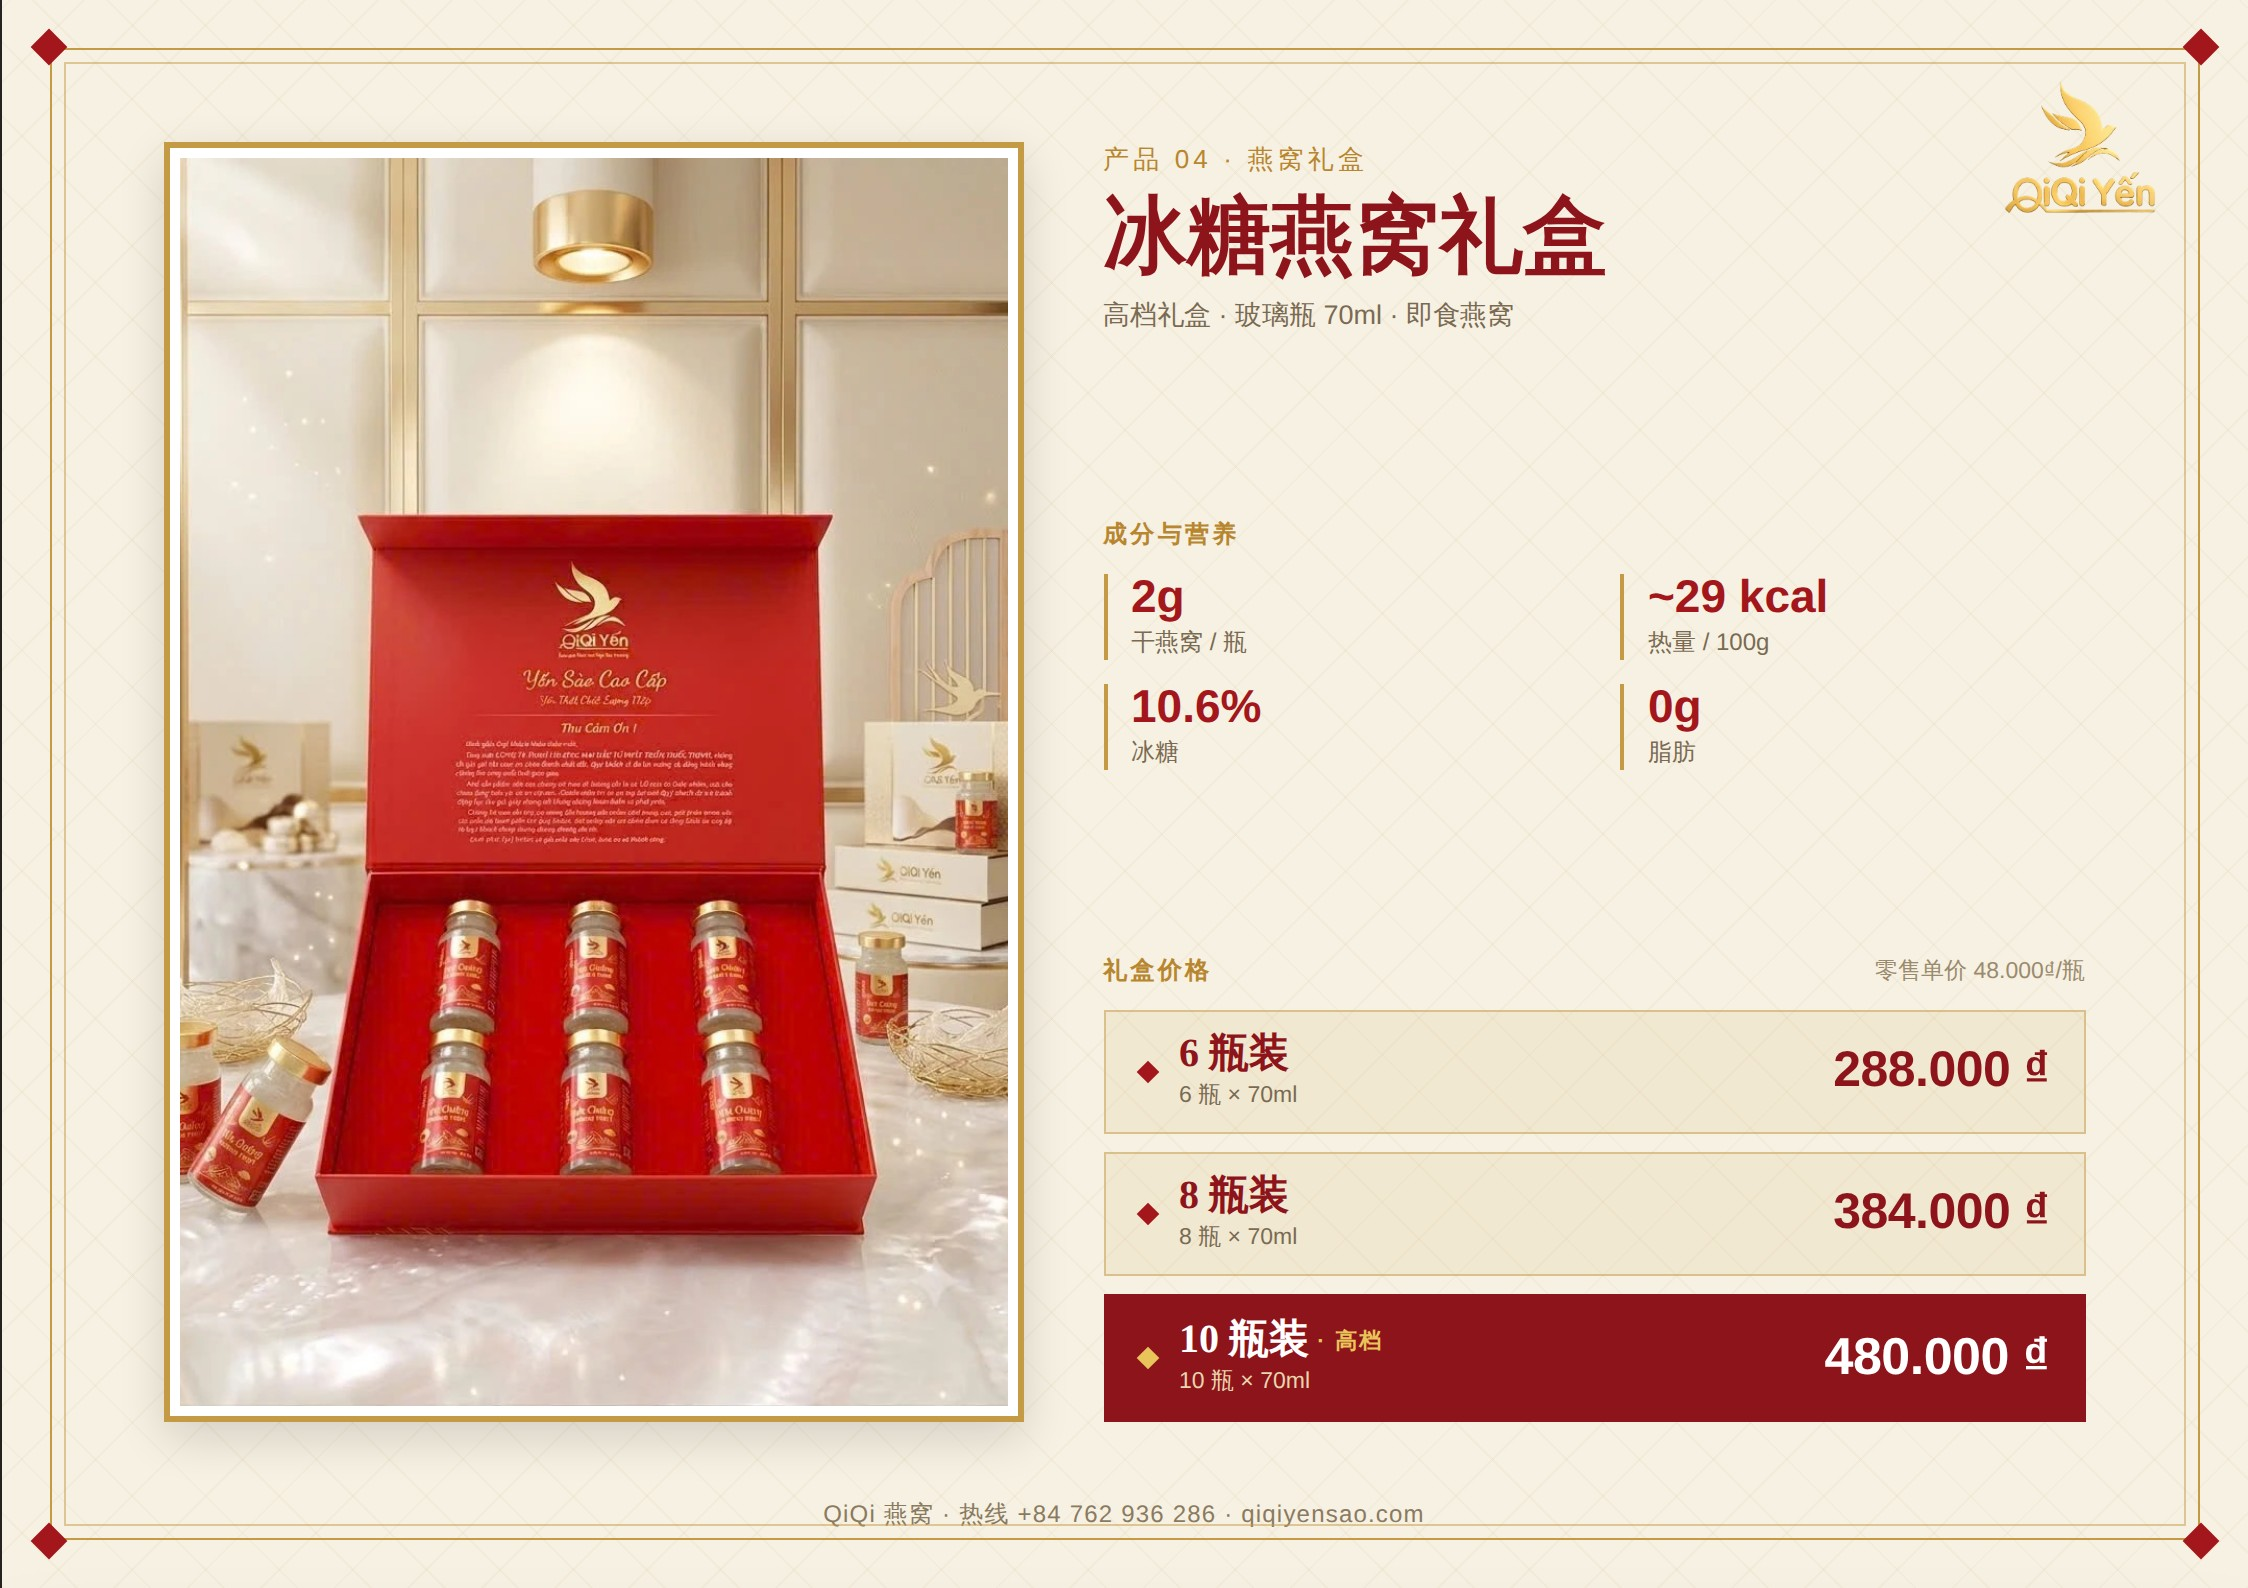
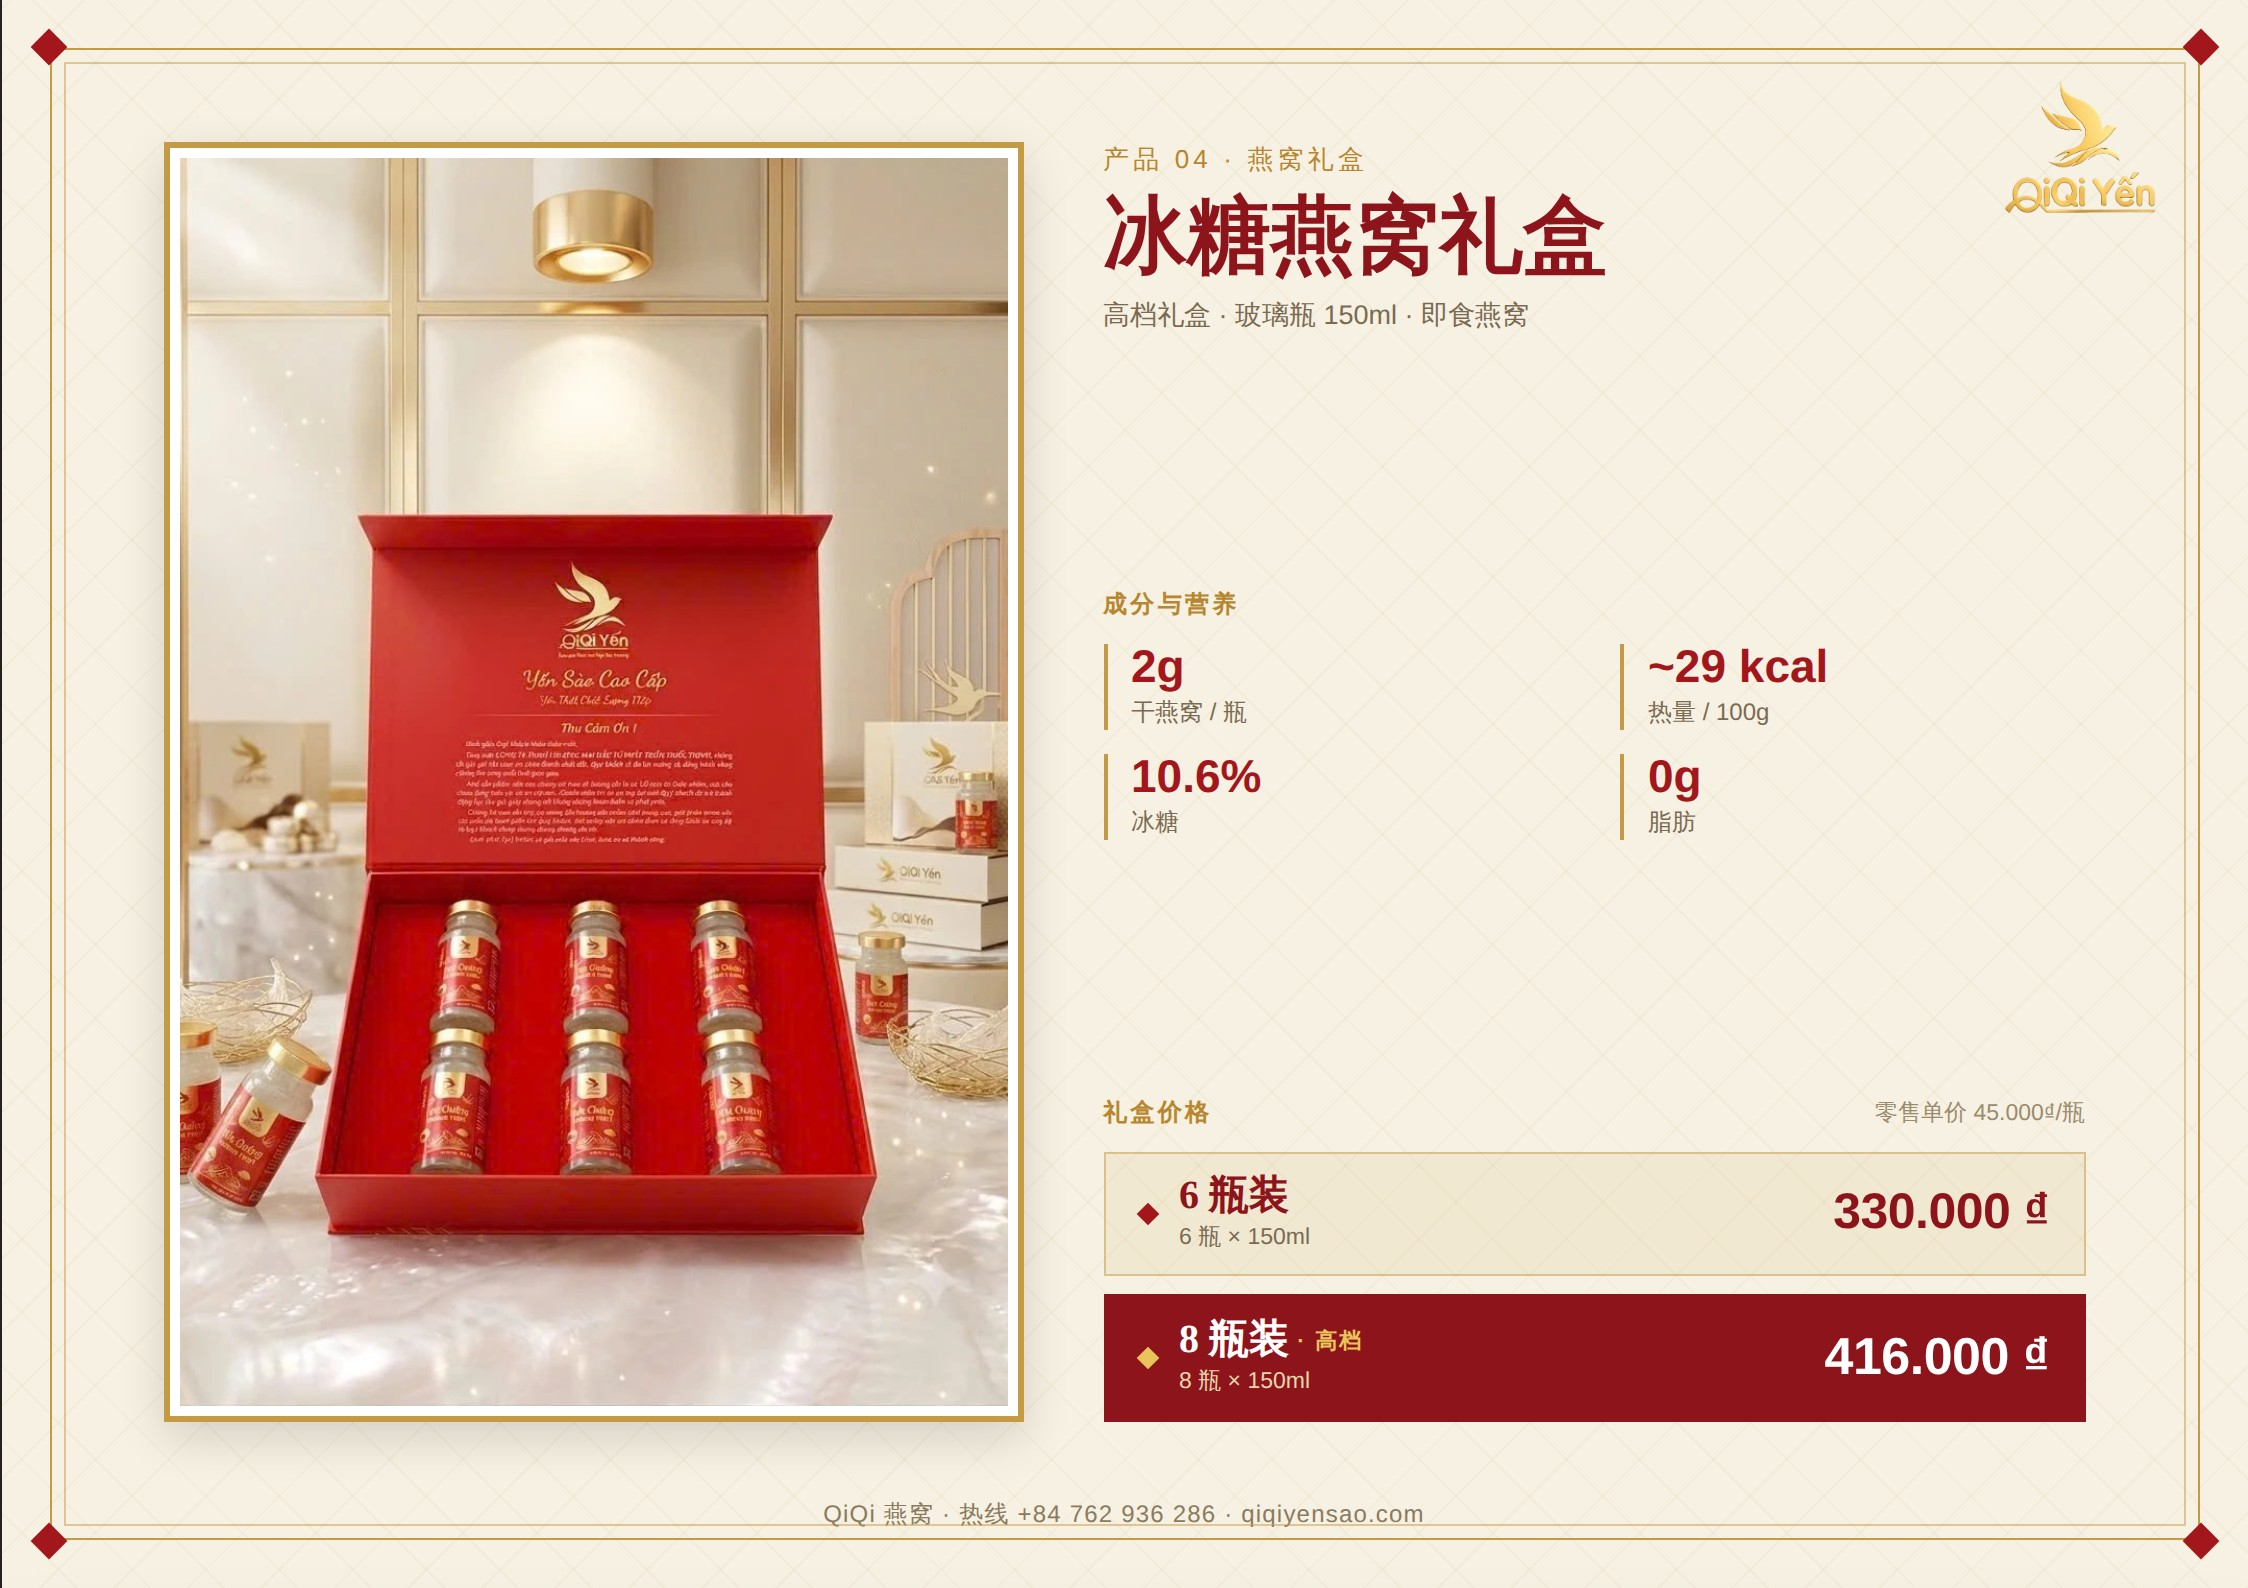
Hộp Quà Đường Phèn: 150ml, Set 6 330k / Set 8 416k (no Set 10)
Claude-Session: https://claude.ai/code/session_01UhNsoZ8GK1i7GJy5KeDZ4B

diff --git a/site/index.html b/site/index.html
@@ -391,26 +391,22 @@
         <div>
           <div class="kicker">SẢN PHẨM 04 · HỘP QUÀ YẾN</div>
           <div class="gift-title" style="--title-size:42px">Hộp Quà Đường Phèn</div>
-          <div class="gift-subtitle">Hộp quà cao cấp · Lọ thủy tinh 70ml · Yến chưng sẵn</div>
+          <div class="gift-subtitle">Hộp quà cao cấp · Lọ thủy tinh 150ml · Yến chưng sẵn</div>
         </div>
         <div>
           <div class="section-label">THÀNH PHẦN &amp; DINH DƯỠNG</div>
           <div class="nutrition"><div class="nutrient"><div class="value">2g</div><div class="label">Tổ yến khô / hũ</div></div><div class="nutrient"><div class="value">~29 kcal</div><div class="label">Năng lượng / 100g</div></div><div class="nutrient"><div class="value">10,6%</div><div class="label">Đường phèn</div></div><div class="nutrient"><div class="value">0g</div><div class="label">Chất béo</div></div></div>
         </div>
         <div>
-          <div class="gift-price-head"><div class="section-label">BẢNG GIÁ QUÀ TẶNG</div><div class="unit-note">Đơn giá lẻ 48.000₫/hũ</div></div>
+          <div class="gift-price-head"><div class="section-label">BẢNG GIÁ QUÀ TẶNG</div><div class="unit-note">Đơn giá lẻ 45.000₫/hũ</div></div>
           <div class="set-list">
           <div class="set-row">
-            <div class="left"><div class="diamond dot"></div><div><div class="set-name">Set 6</div><div class="set-sub">6 hũ × 70ml</div></div></div>
-            <div class="set-price">288.000 ₫</div>
-          </div>
-          <div class="set-row">
-            <div class="left"><div class="diamond dot"></div><div><div class="set-name">Set 8</div><div class="set-sub">8 hũ × 70ml</div></div></div>
-            <div class="set-price">384.000 ₫</div>
+            <div class="left"><div class="diamond dot"></div><div><div class="set-name">Set 6</div><div class="set-sub">6 hũ × 150ml</div></div></div>
+            <div class="set-price">330.000 ₫</div>
           </div>
           <div class="set-row featured">
-            <div class="left"><div class="diamond dot"></div><div><div class="set-name">Set 10<span class="set-badge"> ·  CAO CẤP</span></div><div class="set-sub">10 hũ × 70ml</div></div></div>
-            <div class="set-price">480.000 ₫</div>
+            <div class="left"><div class="diamond dot"></div><div><div class="set-name">Set 8<span class="set-badge"> ·  CAO CẤP</span></div><div class="set-sub">8 hũ × 150ml</div></div></div>
+            <div class="set-price">416.000 ₫</div>
           </div>
           </div>
         </div>
@@ -965,26 +961,22 @@
         <div>
           <div class="kicker">产品 04 · 燕窝礼盒</div>
           <div class="gift-title" style="--title-size:42px">冰糖燕窝礼盒</div>
-          <div class="gift-subtitle">高档礼盒 · 玻璃瓶 70ml · 即食燕窝</div>
+          <div class="gift-subtitle">高档礼盒 · 玻璃瓶 150ml · 即食燕窝</div>
         </div>
         <div>
           <div class="section-label">成分与营养</div>
           <div class="nutrition"><div class="nutrient"><div class="value">2g</div><div class="label">干燕窝 / 瓶</div></div><div class="nutrient"><div class="value">~29 kcal</div><div class="label">热量 / 100g</div></div><div class="nutrient"><div class="value">10.6%</div><div class="label">冰糖</div></div><div class="nutrient"><div class="value">0g</div><div class="label">脂肪</div></div></div>
         </div>
         <div>
-          <div class="gift-price-head"><div class="section-label">礼盒价格</div><div class="unit-note">零售单价 48.000₫/瓶</div></div>
+          <div class="gift-price-head"><div class="section-label">礼盒价格</div><div class="unit-note">零售单价 45.000₫/瓶</div></div>
           <div class="set-list">
           <div class="set-row">
-            <div class="left"><div class="diamond dot"></div><div><div class="set-name">6 瓶装</div><div class="set-sub">6 瓶 × 70ml</div></div></div>
-            <div class="set-price">288.000 ₫</div>
-          </div>
-          <div class="set-row">
-            <div class="left"><div class="diamond dot"></div><div><div class="set-name">8 瓶装</div><div class="set-sub">8 瓶 × 70ml</div></div></div>
-            <div class="set-price">384.000 ₫</div>
+            <div class="left"><div class="diamond dot"></div><div><div class="set-name">6 瓶装</div><div class="set-sub">6 瓶 × 150ml</div></div></div>
+            <div class="set-price">330.000 ₫</div>
           </div>
           <div class="set-row featured">
-            <div class="left"><div class="diamond dot"></div><div><div class="set-name">10 瓶装<span class="set-badge"> · 高档</span></div><div class="set-sub">10 瓶 × 70ml</div></div></div>
-            <div class="set-price">480.000 ₫</div>
+            <div class="left"><div class="diamond dot"></div><div><div class="set-name">8 瓶装<span class="set-badge"> · 高档</span></div><div class="set-sub">8 瓶 × 150ml</div></div></div>
+            <div class="set-price">416.000 ₫</div>
           </div>
           </div>
         </div>
